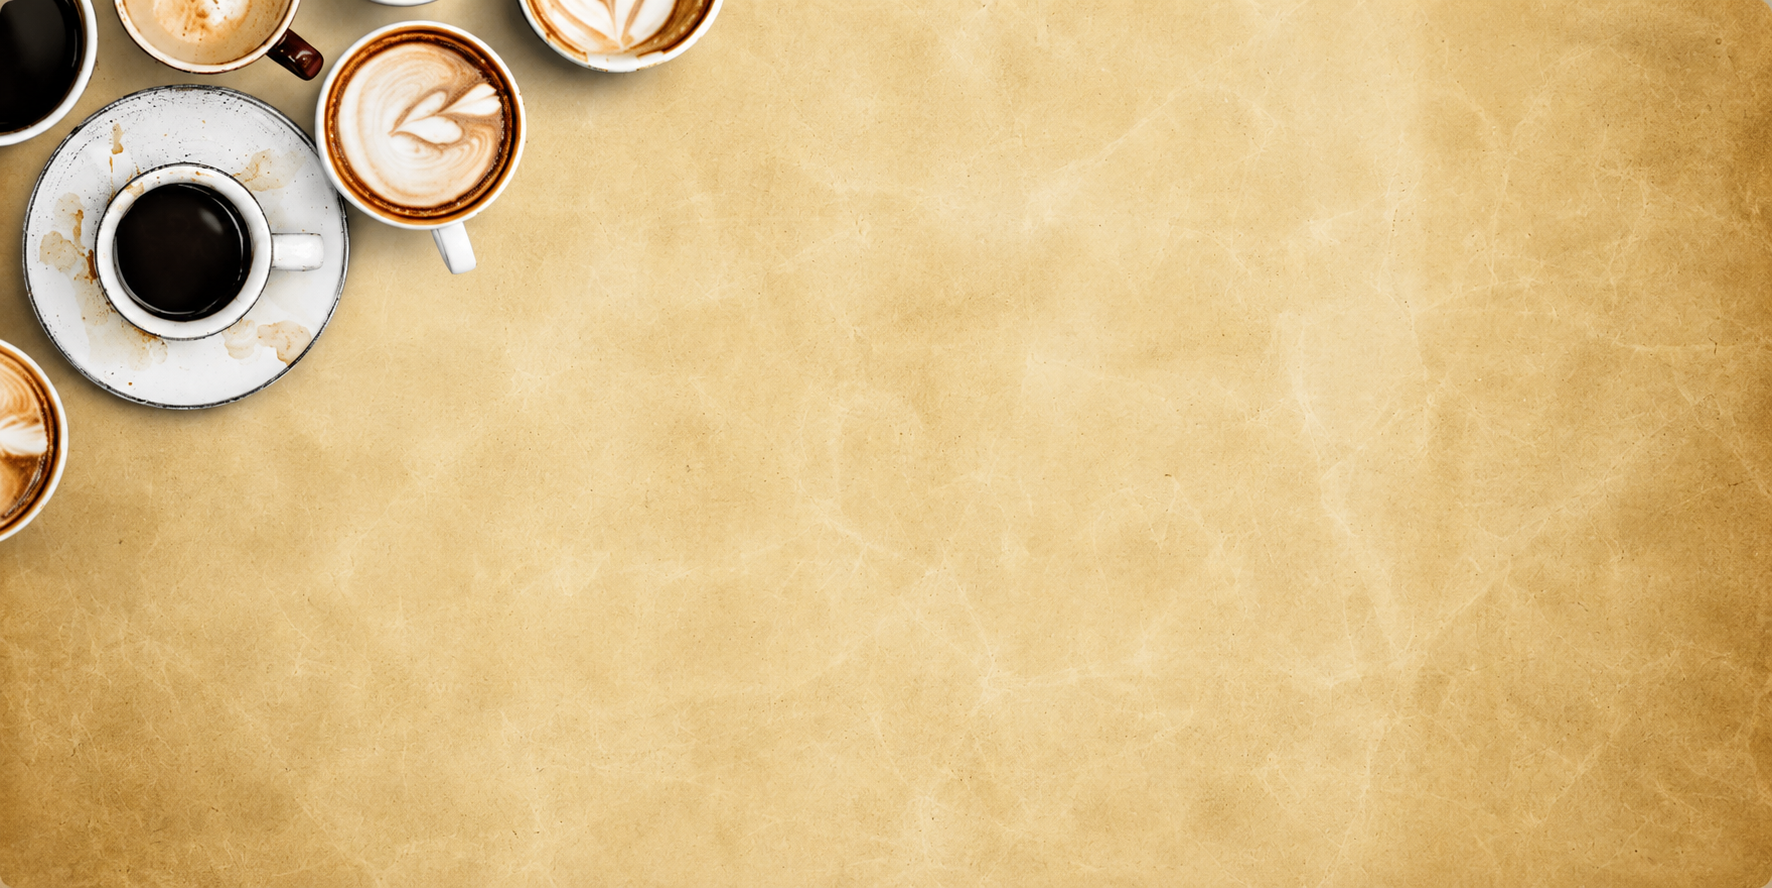
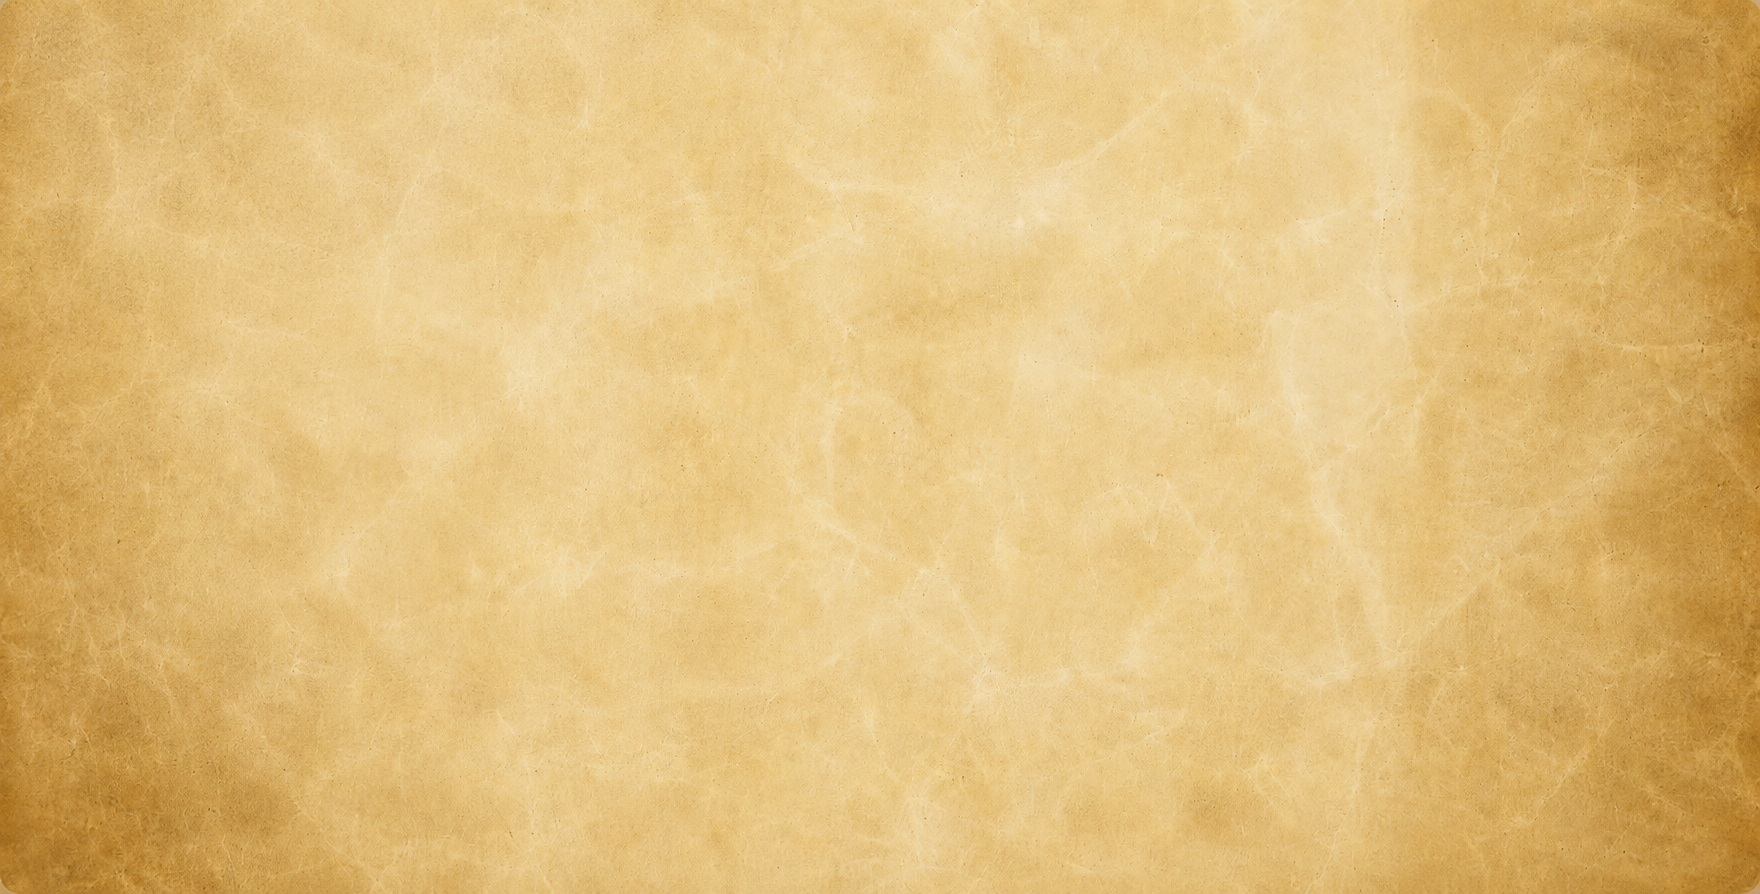
mensage

diff --git a/Projeto integrador2/Projeto integrador2/SelecaoDeBebidas.xaml.cs b/Projeto integrador2/Projeto integrador2/SelecaoDeBebidas.xaml.cs
@@ -43,5 +43,10 @@ namespace Projeto_integrador2
         {
 
         }
+
+        private void Button_Click_1(object sender, RoutedEventArgs e)
+        {
+
+        }
     }
 }
